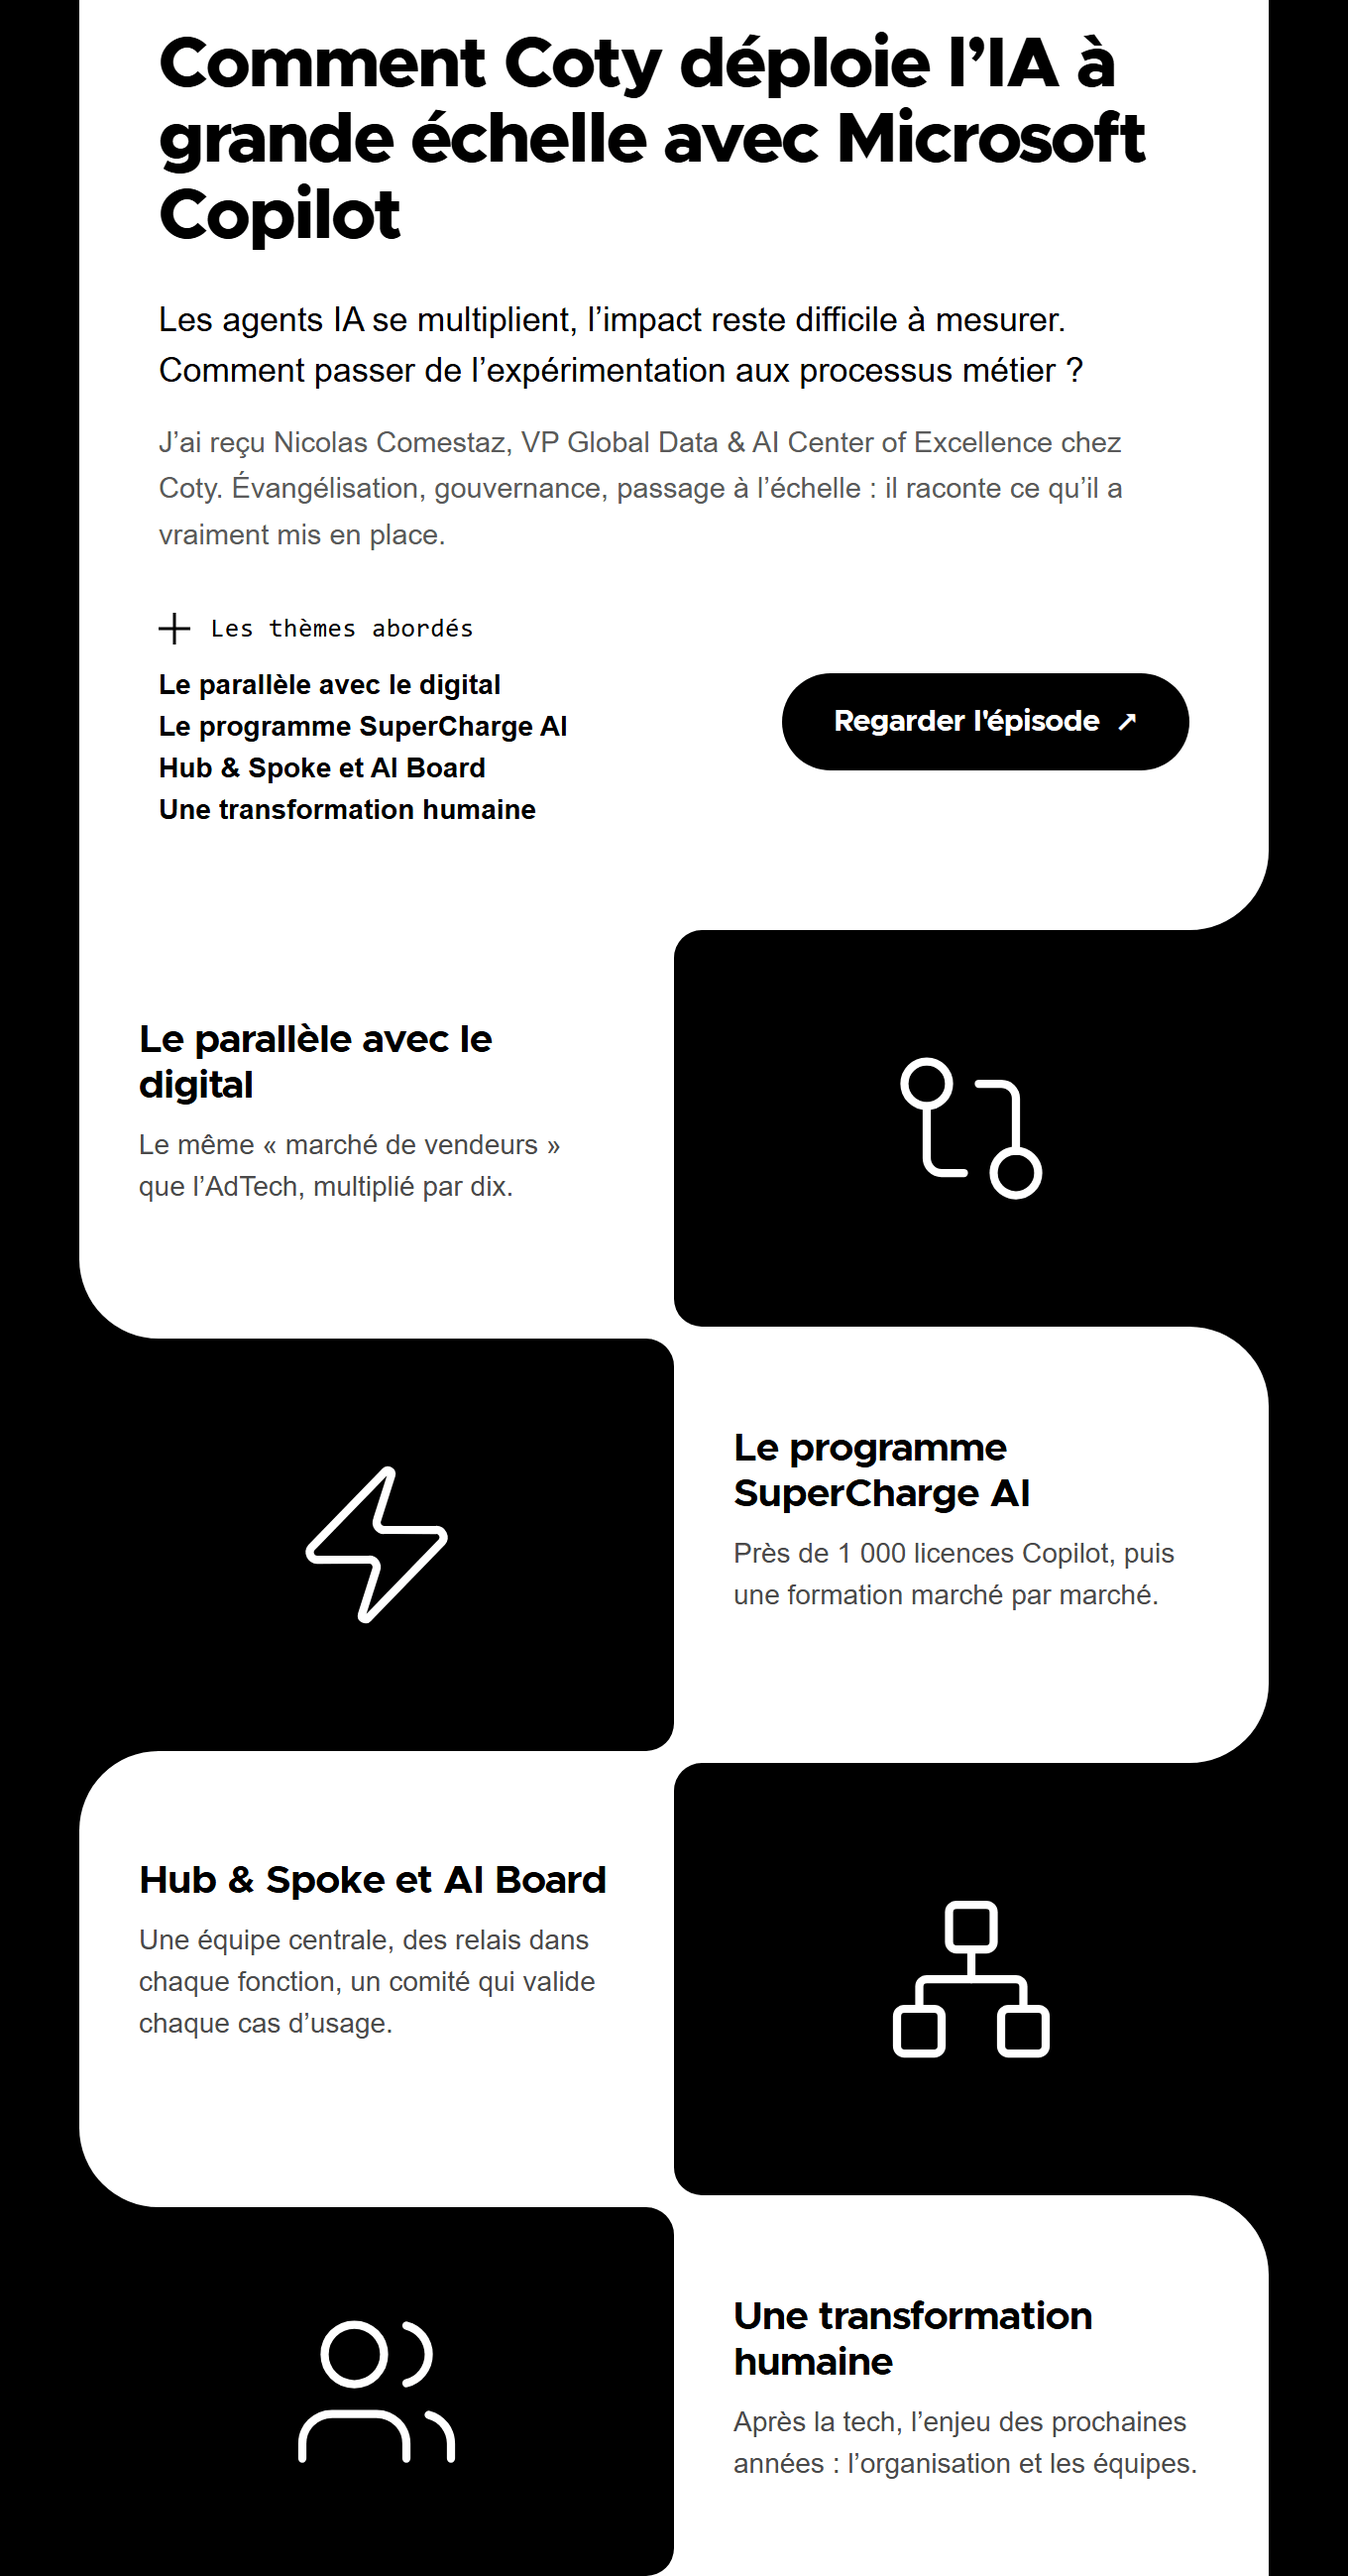
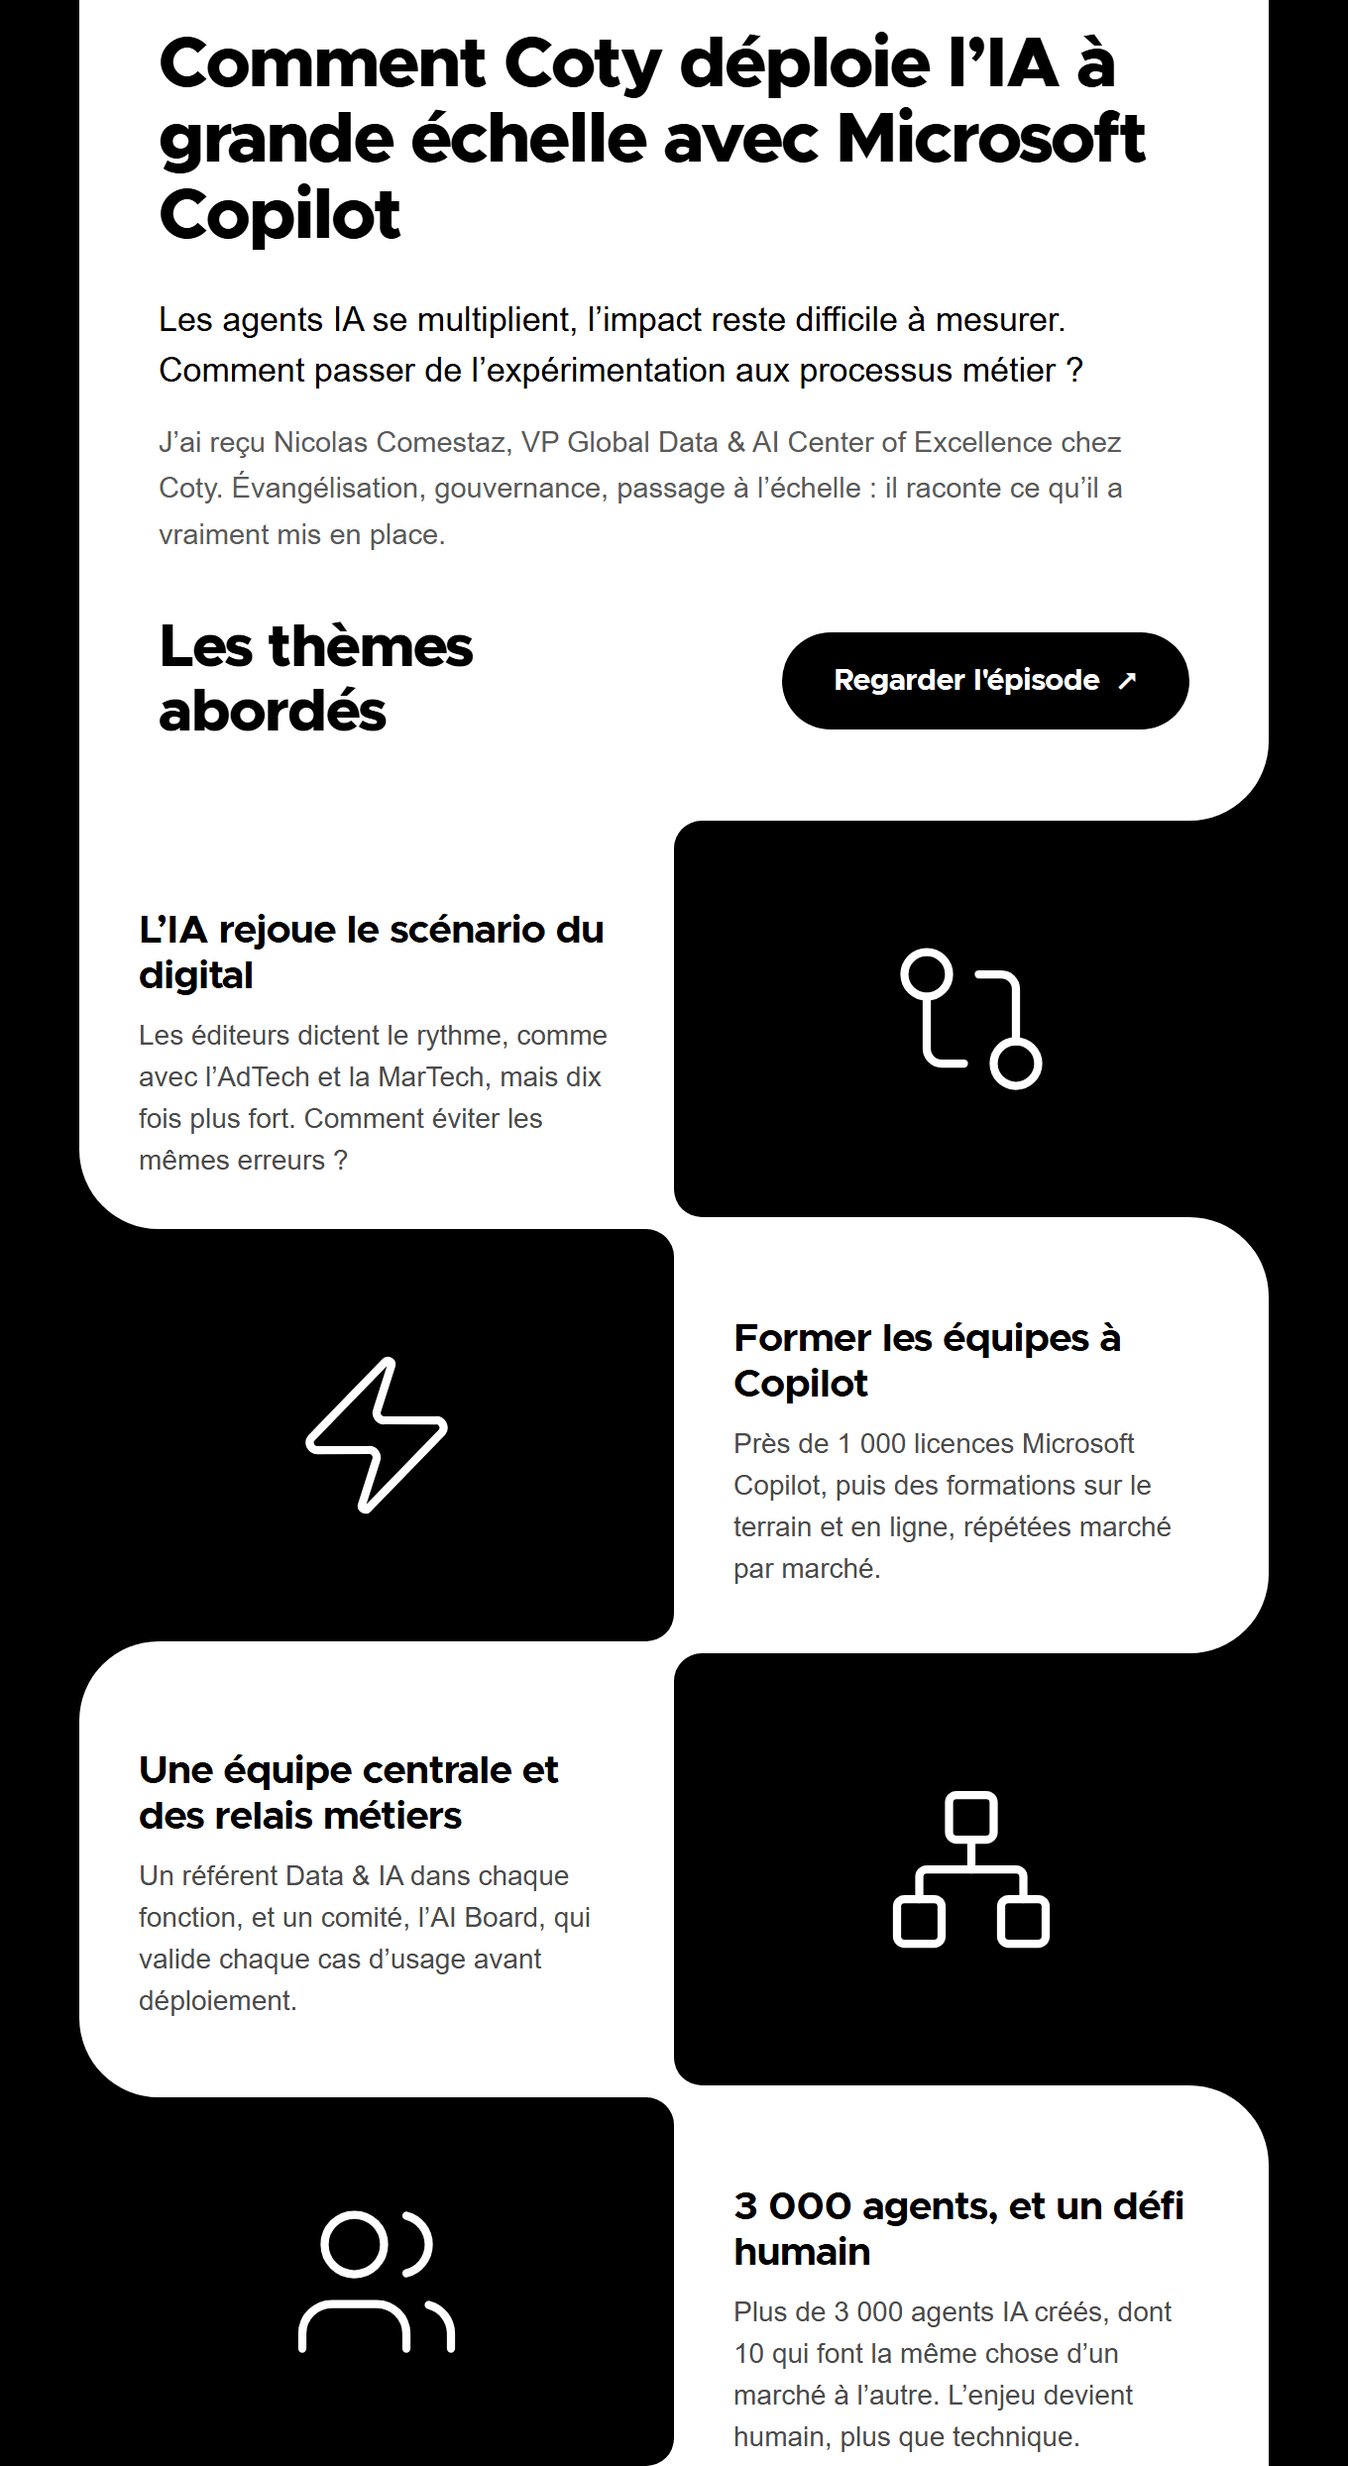
Mosaïque : « Les thèmes abordés » en titre, contenu des 4 carrés reformulé pour qu'on comprenne sans contexte (retour d'Arthur 02/11)

diff --git a/docs/newsletters/E23/email.html b/docs/newsletters/E23/email.html
@@ -7,6 +7,6 @@
 <div style="display:none;max-height:0;overflow:hidden;opacity:0">Nicolas Comestaz (Coty) : 3000 agents créés, et maintenant ? Sa méthode.</div>
 <table role="presentation" width="100%" cellpadding="0" cellspacing="0" bgcolor="#000000"><tr><td align="center" style="padding:24px 12px">
 <table role="presentation" width="680" cellpadding="0" cellspacing="0" bgcolor="#000000" style="width:100%;max-width:680px;border-radius:16px;overflow:hidden">
-<tr><td bgcolor="#000000" height="24" style="font-size:0;line-height:0;height:24px">&nbsp;</td></tr><tr><td bgcolor="#000000" style="font-size:0;line-height:0"><a href="{{lien_youtube}}" style="text-decoration:none"><img src="https://arthurw31.github.io/ai-partners-podcast-content-machine/newsletters/E23/mosaique_entete.png" width="680" alt="AI Corner by AI Partners, épisode E23" style="display:block;width:100%;max-width:680px;border:0"></a></td></tr><tr><td bgcolor="#000000" style="font-size:0;line-height:0"><a href="{{lien_youtube}}" style="text-decoration:none"><img src="https://arthurw31.github.io/ai-partners-podcast-content-machine/newsletters/E23/mosaique_miniature.jpg" width="680" alt="Comment Coty déploie l’IA à grande échelle avec Microsoft Copilot" style="display:block;width:100%;max-width:680px;border:0"></a></td></tr><tr><td bgcolor="#000000" style="font-size:0;line-height:0"><a href="{{lien_youtube}}" style="text-decoration:none"><img src="https://arthurw31.github.io/ai-partners-podcast-content-machine/newsletters/E23/mosaique_haut.png" width="680" alt="Comment Coty déploie l’IA à grande échelle avec Microsoft Copilot Les agents IA se multiplient, l’impact reste difficile à mesurer. Comment passer de l’expérimentation aux processus métier ? J’ai reçu Nicolas Comestaz, VP Global Data &amp; AI Center of Excellence chez Coty. Évangélisation, gouvernance, passage à l’échelle : il raconte ce qu’il a vraiment mis en place. Regarder l&#x27;épisode. 04:53 Le parallèle avec le digital : Le même « marché de vendeurs » que l’AdTech, multiplié par dix. 09:32 Le programme SuperCharge AI : Près de 1 000 licences Copilot, puis une formation marché par marché. 22:47 Hub &amp; Spoke et AI Board : Une équipe centrale, des relais dans chaque fonction, un comité qui valide chaque cas d’usage. 31:54 Une transformation humaine : Après la tech, l’enjeu des prochaines années : l’organisation et les équipes." style="display:block;width:100%;max-width:680px;border:0"></a></td></tr><tr><td bgcolor="#000000" style="font-size:0;line-height:0"><a href="https://calendar.google.com/calendar/appointments/schedules/AcZssZ0_yeSZr-eANdqFosuQLg2jE2smXxRU-eIMCXBA0WC3CynV7uSHwNeGX8FK-0MHDtpLcNiC4f9_?gv=true" style="text-decoration:none"><img src="https://arthurw31.github.io/ai-partners-podcast-content-machine/newsletters/E23/mosaique_fin.png" width="680" alt="Ma phrase préférée : le Head of AI est un architecte. Il comprend assez la technique pour challenger, sans poser le carrelage lui-même. Thomas Spitz Vos équipes testent l&#x27;IA. Et après ? Réserver un échange avec Thomas" style="display:block;width:100%;max-width:680px;border:0"></a></td></tr><tr><td bgcolor="#000000" align="center" style="padding:0 40px"><table role="presentation" width="100%" bgcolor="#FFFFFF" cellpadding="0" cellspacing="0"><tr><td align="center" bgcolor="#FFFFFF" style="padding:0 0 4px"><table role="presentation" align="center" cellpadding="0" cellspacing="0"><tr><td align="center" valign="middle" width="100" style="padding:0 4px;font-size:0;line-height:0"><a href="https://www.youtube.com/playlist?list=PLeeolan_fqxdZbU5xZqEwo12pbqK3fH5N" style="text-decoration:none"><img src="https://arthurw31.github.io/ai-partners-podcast-content-machine/newsletters/E23/mosaique_youtube.png" width="100" height="100" alt="Youtube" style="display:block;width:100px;height:100px;border:0"></a></td><td align="center" valign="middle" width="100" style="padding:0 4px;font-size:0;line-height:0"><a href="https://open.spotify.com/show/4chUmiipM4KiK4sEdL9BeP" style="text-decoration:none"><img src="https://arthurw31.github.io/ai-partners-podcast-content-machine/newsletters/E23/mosaique_spotify.png" width="100" height="100" alt="Spotify" style="display:block;width:100px;height:100px;border:0"></a></td><td align="center" valign="middle" width="100" style="padding:0 4px;font-size:0;line-height:0"><a href="https://podcast.ausha.co/ai-partners-podcast" style="text-decoration:none"><img src="https://arthurw31.github.io/ai-partners-podcast-content-machine/newsletters/E23/mosaique_ausha.png" width="100" height="100" alt="Ausha" style="display:block;width:100px;height:100px;border:0"></a></td></tr></table></td></tr></table></td></tr><tr><td bgcolor="#000000" style="font-size:0;line-height:0"><img src="https://arthurw31.github.io/ai-partners-podcast-content-machine/newsletters/E23/mosaique_plateformes_bas.png" width="680" alt="" style="display:block;width:100%;max-width:680px;border:0"></td></tr>
+<tr><td bgcolor="#000000" height="24" style="font-size:0;line-height:0;height:24px">&nbsp;</td></tr><tr><td bgcolor="#000000" style="font-size:0;line-height:0"><a href="{{lien_youtube}}" style="text-decoration:none"><img src="https://arthurw31.github.io/ai-partners-podcast-content-machine/newsletters/E23/mosaique_entete.png" width="680" alt="AI Corner by AI Partners, épisode E23" style="display:block;width:100%;max-width:680px;border:0"></a></td></tr><tr><td bgcolor="#000000" style="font-size:0;line-height:0"><a href="{{lien_youtube}}" style="text-decoration:none"><img src="https://arthurw31.github.io/ai-partners-podcast-content-machine/newsletters/E23/mosaique_miniature.jpg" width="680" alt="Comment Coty déploie l’IA à grande échelle avec Microsoft Copilot" style="display:block;width:100%;max-width:680px;border:0"></a></td></tr><tr><td bgcolor="#000000" style="font-size:0;line-height:0"><a href="{{lien_youtube}}" style="text-decoration:none"><img src="https://arthurw31.github.io/ai-partners-podcast-content-machine/newsletters/E23/mosaique_haut.png" width="680" alt="Comment Coty déploie l’IA à grande échelle avec Microsoft Copilot Les agents IA se multiplient, l’impact reste difficile à mesurer. Comment passer de l’expérimentation aux processus métier ? J’ai reçu Nicolas Comestaz, VP Global Data &amp; AI Center of Excellence chez Coty. Évangélisation, gouvernance, passage à l’échelle : il raconte ce qu’il a vraiment mis en place. Regarder l&#x27;épisode. 04:53 L’IA rejoue le scénario du digital : Les éditeurs dictent le rythme, comme avec l’AdTech et la MarTech, mais dix fois plus fort. Comment éviter les mêmes erreurs ? 09:32 Former les équipes à Copilot : Près de 1 000 licences Microsoft Copilot, puis des formations sur le terrain et en ligne, répétées marché par marché. 22:47 Une équipe centrale et des relais métiers : Un référent Data &amp; IA dans chaque fonction, et un comité, l’AI Board, qui valide chaque cas d’usage avant déploiement. 31:54 3 000 agents, et un défi humain : Plus de 3 000 agents IA créés, dont 10 qui font la même chose d’un marché à l’autre. L’enjeu devient humain, plus que technique." style="display:block;width:100%;max-width:680px;border:0"></a></td></tr><tr><td bgcolor="#000000" style="font-size:0;line-height:0"><a href="https://calendar.google.com/calendar/appointments/schedules/AcZssZ0_yeSZr-eANdqFosuQLg2jE2smXxRU-eIMCXBA0WC3CynV7uSHwNeGX8FK-0MHDtpLcNiC4f9_?gv=true" style="text-decoration:none"><img src="https://arthurw31.github.io/ai-partners-podcast-content-machine/newsletters/E23/mosaique_fin.png" width="680" alt="Ma phrase préférée : le Head of AI est un architecte. Il comprend assez la technique pour challenger, sans poser le carrelage lui-même. Thomas Spitz Vos équipes testent l&#x27;IA. Et après ? Réserver un échange avec Thomas" style="display:block;width:100%;max-width:680px;border:0"></a></td></tr><tr><td bgcolor="#000000" align="center" style="padding:0 40px"><table role="presentation" width="100%" bgcolor="#FFFFFF" cellpadding="0" cellspacing="0"><tr><td align="center" bgcolor="#FFFFFF" style="padding:0 0 4px"><table role="presentation" align="center" cellpadding="0" cellspacing="0"><tr><td align="center" valign="middle" width="100" style="padding:0 4px;font-size:0;line-height:0"><a href="https://www.youtube.com/playlist?list=PLeeolan_fqxdZbU5xZqEwo12pbqK3fH5N" style="text-decoration:none"><img src="https://arthurw31.github.io/ai-partners-podcast-content-machine/newsletters/E23/mosaique_youtube.png" width="100" height="100" alt="Youtube" style="display:block;width:100px;height:100px;border:0"></a></td><td align="center" valign="middle" width="100" style="padding:0 4px;font-size:0;line-height:0"><a href="https://open.spotify.com/show/4chUmiipM4KiK4sEdL9BeP" style="text-decoration:none"><img src="https://arthurw31.github.io/ai-partners-podcast-content-machine/newsletters/E23/mosaique_spotify.png" width="100" height="100" alt="Spotify" style="display:block;width:100px;height:100px;border:0"></a></td><td align="center" valign="middle" width="100" style="padding:0 4px;font-size:0;line-height:0"><a href="https://podcast.ausha.co/ai-partners-podcast" style="text-decoration:none"><img src="https://arthurw31.github.io/ai-partners-podcast-content-machine/newsletters/E23/mosaique_ausha.png" width="100" height="100" alt="Ausha" style="display:block;width:100px;height:100px;border:0"></a></td></tr></table></td></tr></table></td></tr><tr><td bgcolor="#000000" style="font-size:0;line-height:0"><img src="https://arthurw31.github.io/ai-partners-podcast-content-machine/newsletters/E23/mosaique_plateformes_bas.png" width="680" alt="" style="display:block;width:100%;max-width:680px;border:0"></td></tr>
 <tr><td bgcolor="#000000" class="pad" style="padding:22px 40px;font-family:Helvetica, Arial, sans-serif;font-size:12px;line-height:1.6;color:#8A8A8A">AI Corner, le podcast d'AI Partners.<!--FOOT--></td></tr>
 </table></td></tr></table></body></html>

diff --git a/clipper/newsletter_mosaique.py b/clipper/newsletter_mosaique.py
@@ -24,7 +24,7 @@ HEAD = 96                # haut de la forme : barre « AI Corner by … » (20 p
 TW = 560                 # largeur de la miniature, posée DANS le blanc (20 px de marge de chaque côté)
 TH = round(TW * 9 / 16)  # hauteur de la miniature
 TXT = HEAD + TH + 30     # début du titre, de l'accroche et du bouton
-H0 = TXT + 455           # fin du grand rectangle (titre, accroche, intro, bouton)
+H0 = TXT + 400           # fin du grand rectangle (titre, accroche, intro, bouton)
 TITLE_H = 84             # titre du bandeau des plateformes, dans la même forme blanche
 STEP = 830               # hauteur de l'escalier du programme
 H1 = 330                 # hauteur du rectangle final (mot de Thomas + réservation)
@@ -79,7 +79,7 @@ def sentences(text: str, max_chars: int, max_sentences: int = 2) -> str:
 def short_texts(mail: dict, title: str) -> dict:
     prog = []
     for i, p in enumerate(mail.get("program") or []):
-        prog.append({"time": _tc(p.get("chapter")), "title": p.get("title", ""), "text": p.get("court") or sentences(p.get("text", ""), 95, 1),
+        prog.append({"time": _tc(p.get("chapter")), "title": p.get("court_title") or p.get("title", ""), "text": p.get("court") or sentences(p.get("text", ""), 95, 1),
                      "glyph": p.get("glyph") or DEFAULT_GLYPHS[i % len(DEFAULT_GLYPHS)]})
     return {"title": re.sub(r"^\s*AI Corner E\d+\s*\|\s*", "", title or mail.get("theme", "")),
             "hook": mail.get("hook_court") or sentences(mail.get("hook", ""), 150, 2),
@@ -182,8 +182,7 @@ def make_mosaic(brand, d: Path, mail: dict, shot, fonts_css: str, uri, thumb: Pa
  <div style="font:800 36px/1.06 M;letter-spacing:-.025em;color:#000">{esc(t["title"])}</div>
  <div style="font:17px/1.5 Arial;color:#000;margin-top:20px">{esc(t["hook"])}</div>
  <div style="font:14.5px/1.6 Arial;color:#5A5A5A;margin-top:12px">{esc(t["intro"])}</div>
- <div style="margin-top:28px;display:flex;justify-content:space-between;align-items:center;gap:20px"><div style="width:290px">{_lab("Les thèmes abordés", "#000")}
-  <div style="font:700 14px/1.5 Arial;color:#000;margin-top:10px">{"<br>".join(esc(p["title"]) for p in t["program"])}</div></div>
+ <div style="margin-top:30px;display:flex;justify-content:space-between;align-items:center;gap:20px"><div style="font:800 30px/1.08 M;letter-spacing:-.02em;color:#000">Les thèmes<br>abordés</div>
   <span class=btn>{esc((cfg.get("button") or "Regarder l'épisode").capitalize())} &nbsp;↗</span></div></div>
 {_item(30, o + 44, prog[0])}{_item(330, y["r1s"] + 50, prog[1])}{_item(30, y["l2s"] + 54, prog[2])}{_item(330, y["r2s"] + 50, prog[3])}
 {_icon_cell(brand, 450, o + 100, prog[0])}{_icon_cell(brand, 150, (y["l1e"] + y["l2s"]) // 2, prog[1])}{_icon_cell(brand, 450, (y["r1e"] + y["r2s"]) // 2, prog[2])}{_icon_cell(brand, 150, (y["l2e"] + o + STEP) // 2, prog[3])}
